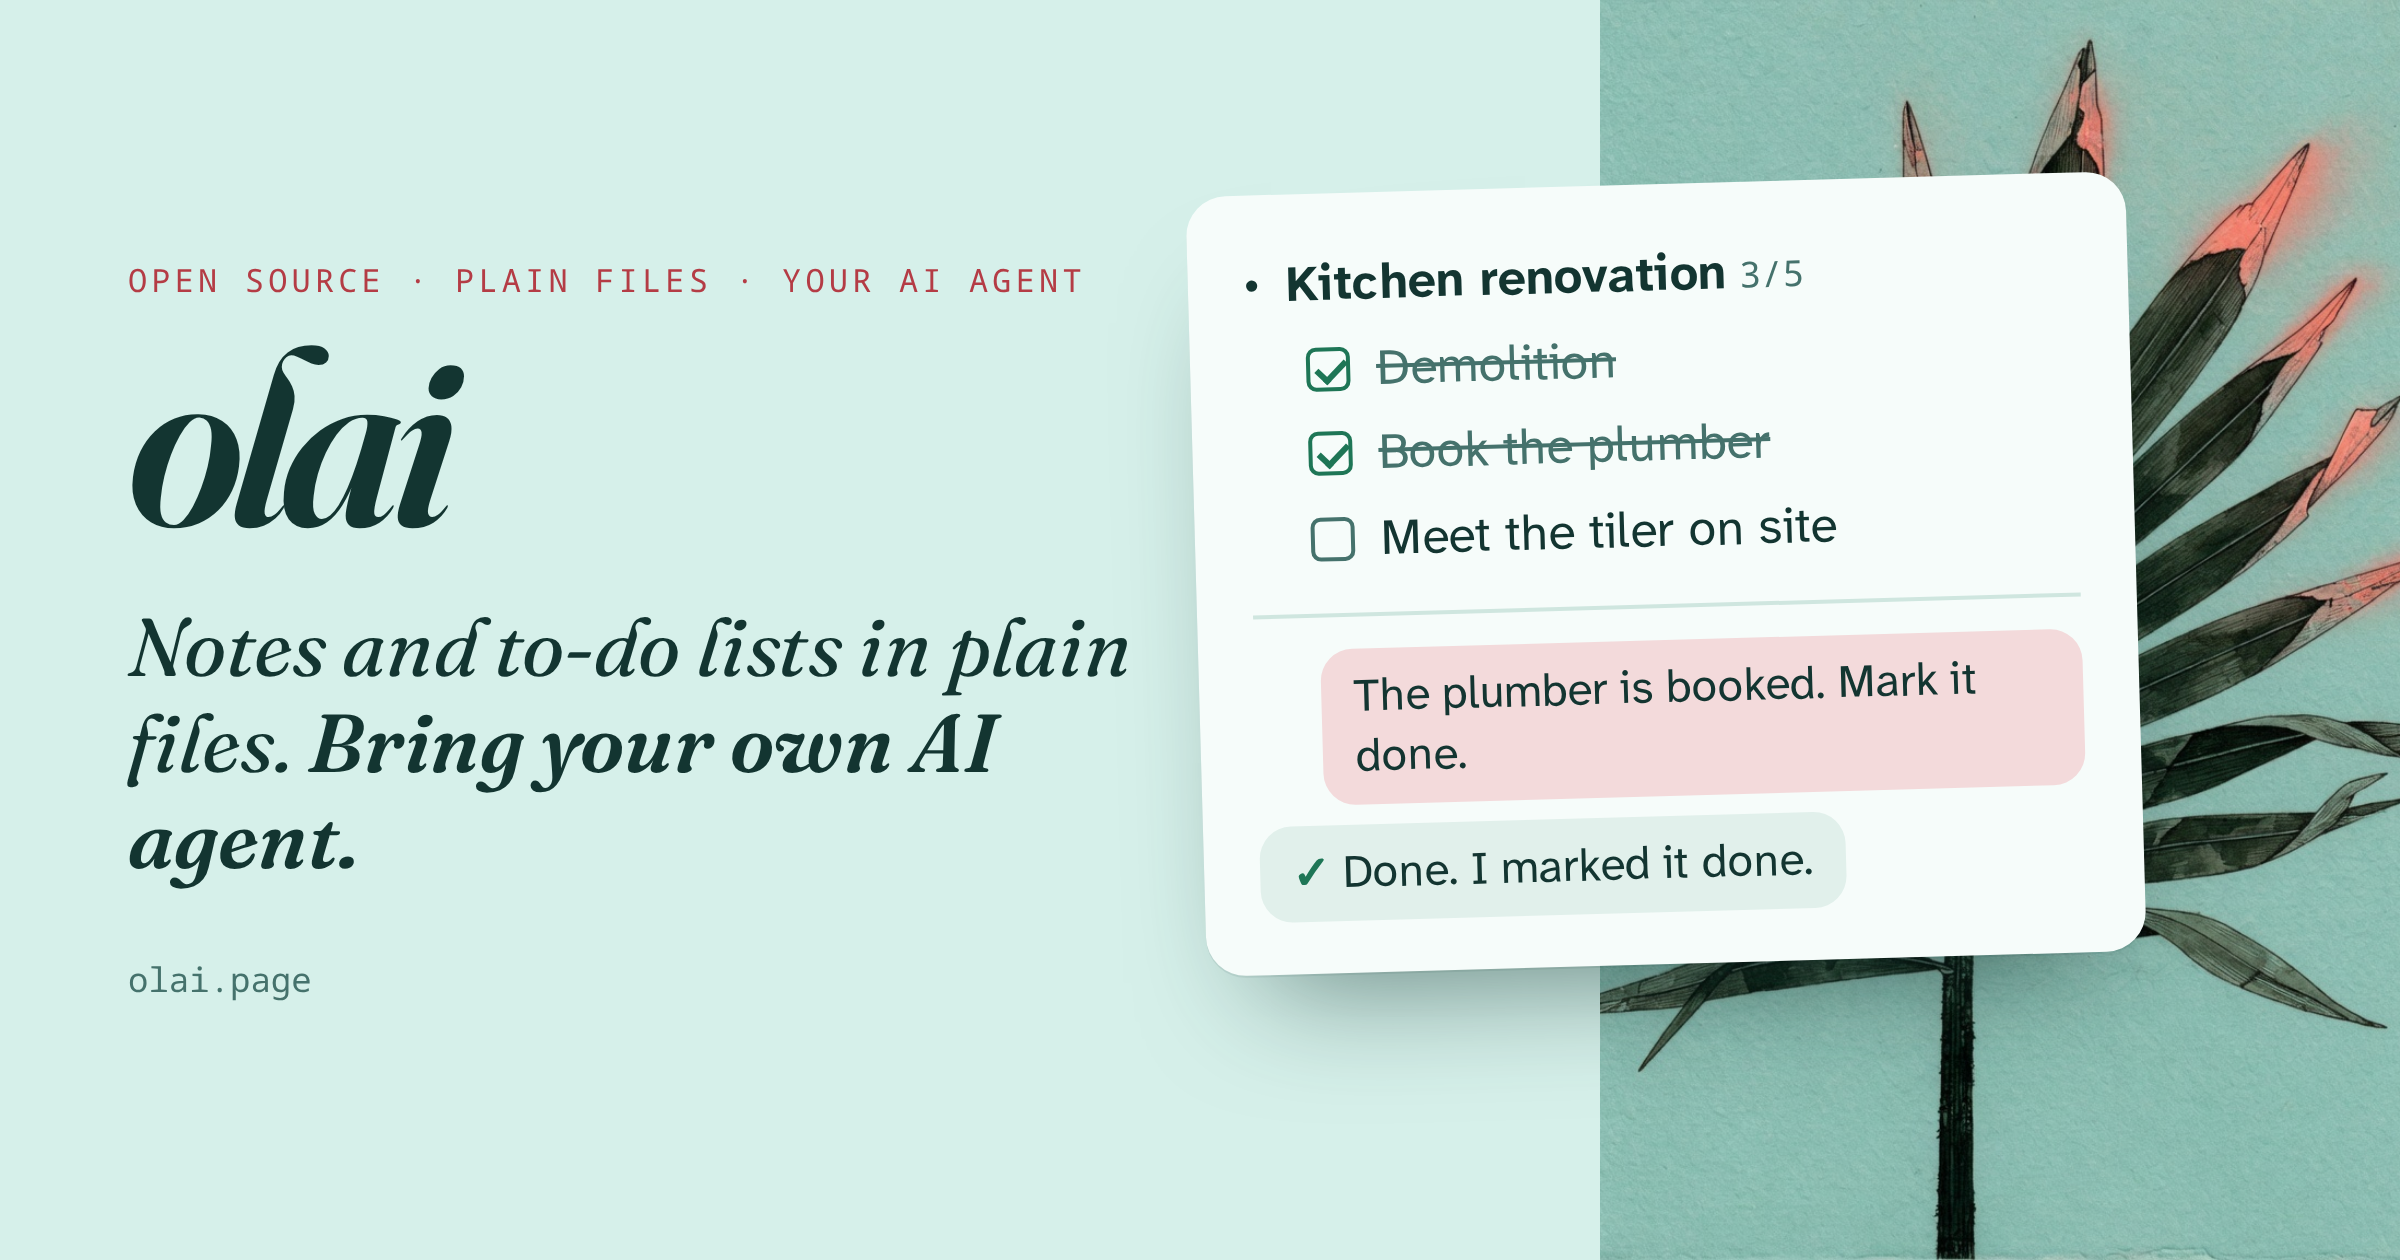
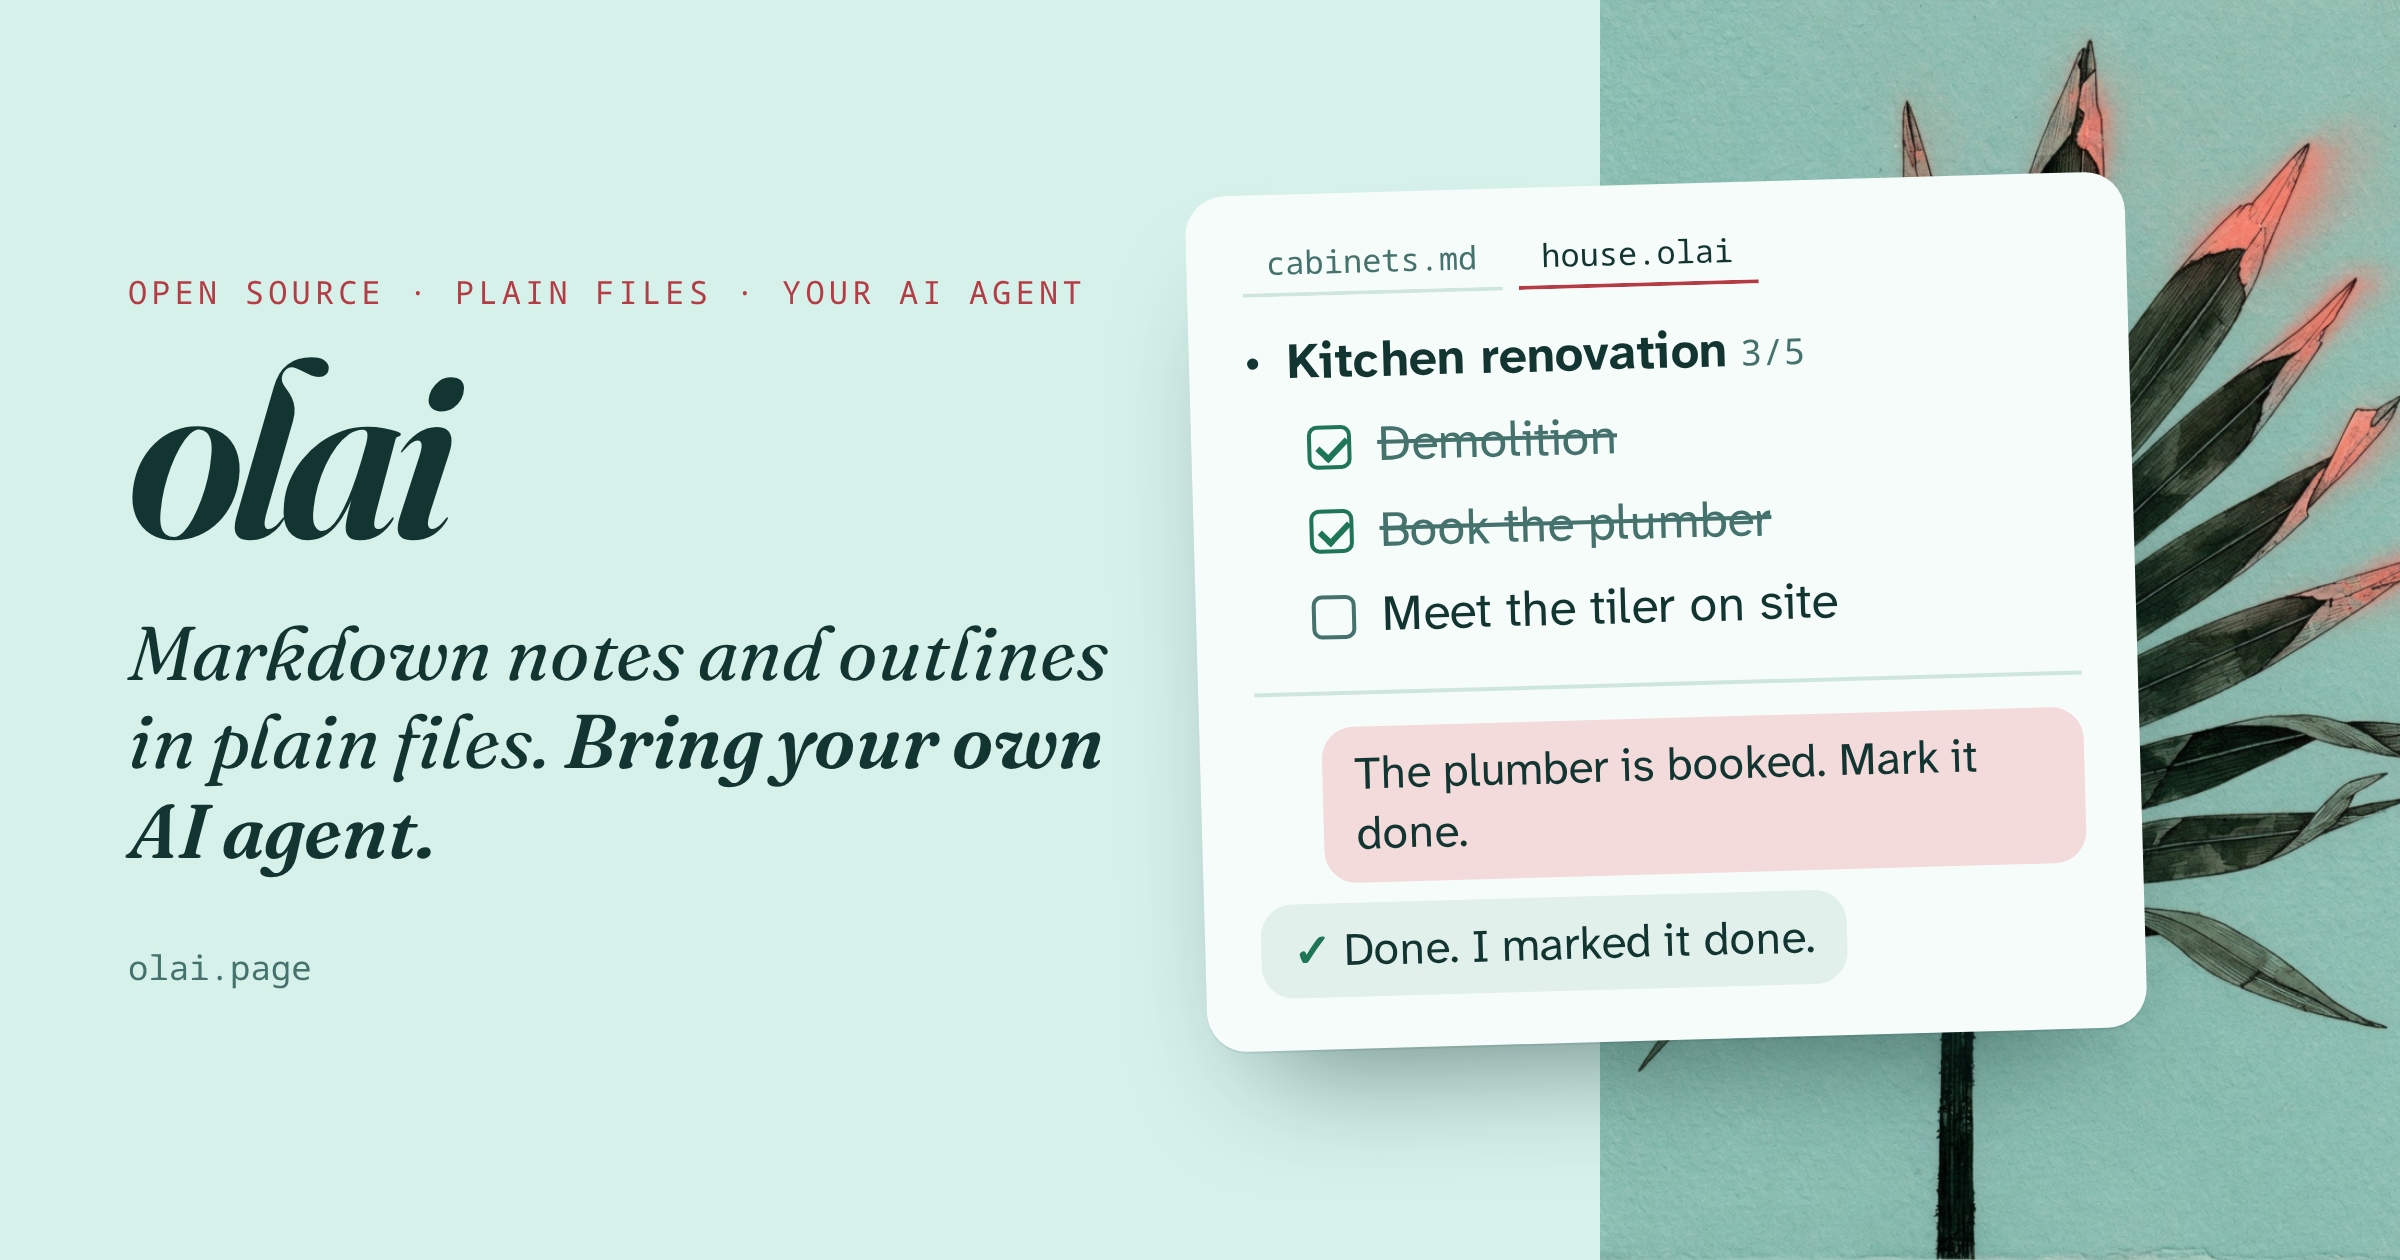
Make the link card say Markdown notes and outlines
The card now reads "Markdown notes and outlines in plain files. Bring
your own AI agent." Its drawing has two tabs, cabinets.md and house.olai,
above the outline and the chat. The page title, the description, and the
card's alt text say the same. The comment in og.html that named the
command is gone.

diff --git a/website/public/og.html b/website/public/og.html
@@ -3,7 +3,6 @@
 <head>
 <meta charset="utf-8">
 <title>olai: link card</title>
-<!-- og.png is made from this file by `just website-tour card`. -->
 <meta name="robots" content="noindex">
 <link rel="preconnect" href="https://fonts.googleapis.com">
 <link rel="preconnect" href="https://fonts.gstatic.com" crossorigin>
@@ -28,7 +27,7 @@
   .copy { position: absolute; left: 64px; top: 0; bottom: 0; width: 520px; display: flex; flex-direction: column; justify-content: center; }
   .kicker { font-family: var(--mono); font-size: 16px; letter-spacing: 0.13em; text-transform: uppercase; color: var(--accent); white-space: nowrap; }
   .wordmark { font-family: var(--display); font-style: italic; font-weight: 600; font-size: 124px; letter-spacing: -0.045em; line-height: 0.9; margin-top: 12px; }
-  .tag { font-family: var(--display); font-style: italic; font-weight: 400; font-size: 41px; line-height: 1.17; margin-top: 26px; }
+  .tag { font-family: var(--display); font-style: italic; font-weight: 400; font-size: 38px; line-height: 1.17; margin-top: 24px; }
   .tag b { font-weight: 600; }
   .host { font-family: var(--mono); font-size: 17px; color: var(--muted); margin-top: 34px; }
   .panel {
@@ -46,6 +45,9 @@
   .box.done { border-color: var(--done); }
   .strike { text-decoration: line-through; color: var(--muted); }
   .count { font-family: var(--mono); font-size: 18px; color: var(--muted); }
+  .tabs { display: flex; gap: 8px; margin: -4px 0 12px; font-family: var(--mono); font-size: 16px; }
+  .tabs span { padding: 4px 12px; border-radius: 8px 8px 0 0; color: var(--muted); border-bottom: 2px solid #CFE6DF; }
+  .tabs span.on { color: var(--ink); border-bottom-color: var(--accent); }
   .chat { margin-top: 16px; padding-top: 16px; border-top: 2px solid #CFE6DF; display: grid; gap: 10px; }
   .msg { border-radius: 16px; padding: 9px 16px; font-size: 23px; max-width: 92%; }
   .you { justify-self: end; background: #F3DADB; }
@@ -59,10 +61,11 @@
     <div class="copy">
       <div class="kicker">open source · plain files · your AI agent</div>
       <div class="wordmark">olai</div>
-      <div class="tag">Notes and to-do lists in plain files. <b>Bring your own AI agent.</b></div>
+      <div class="tag">Markdown notes and outlines in plain files. <b>Bring your own AI agent.</b></div>
       <div class="host">olai.page</div>
     </div>
     <div class="panel">
+      <div class="tabs"><span>cabinets.md</span><span class="on">house.olai</span></div>
       <div class="item"><span class="bullet">●</span><span><b>Kitchen renovation</b> <span class="count">3/5</span></span></div>
       <div class="item d1"><span class="box done"></span><span class="strike">Demolition</span></div>
       <div class="item d1"><span class="box done"></span><span class="strike">Book the plumber</span></div>
